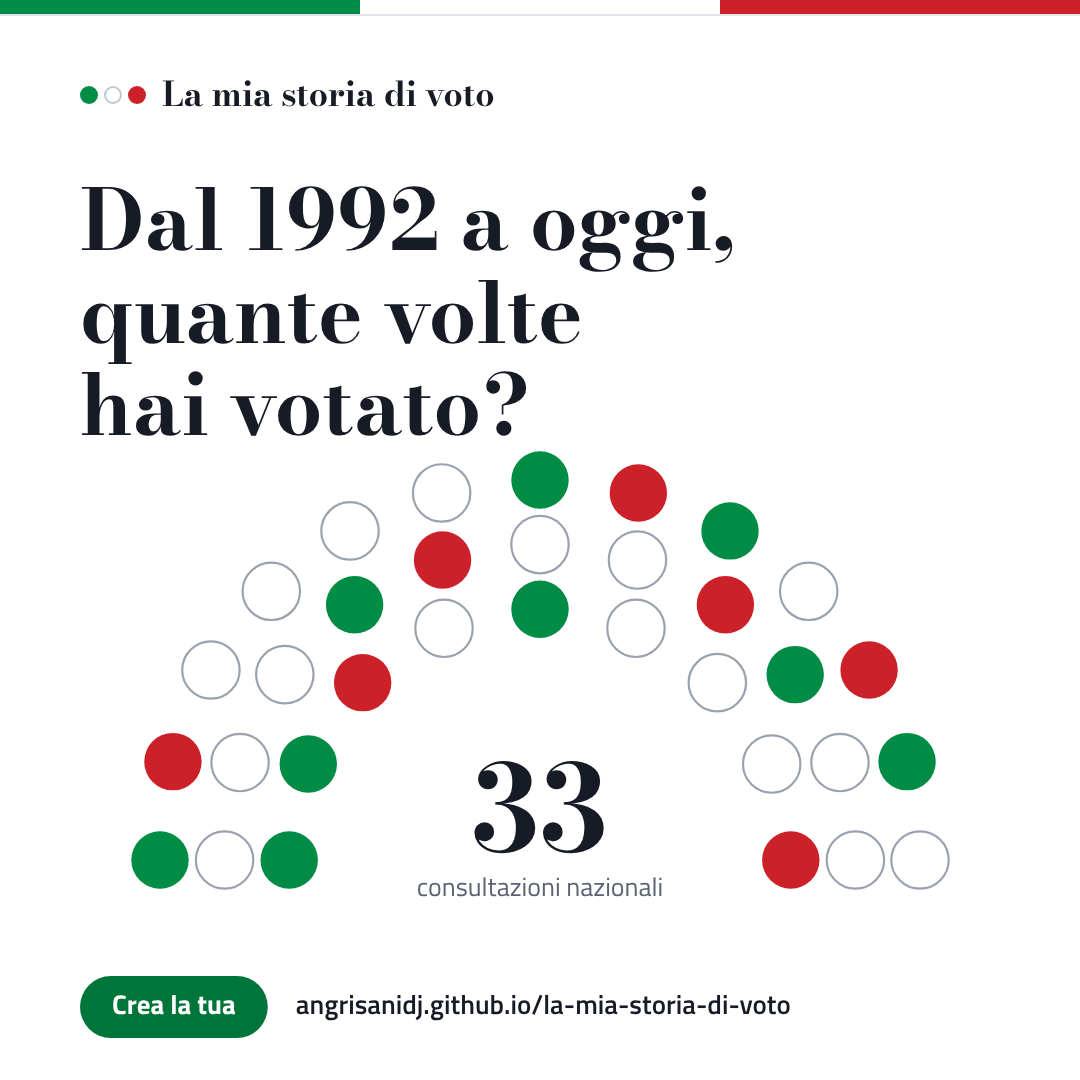
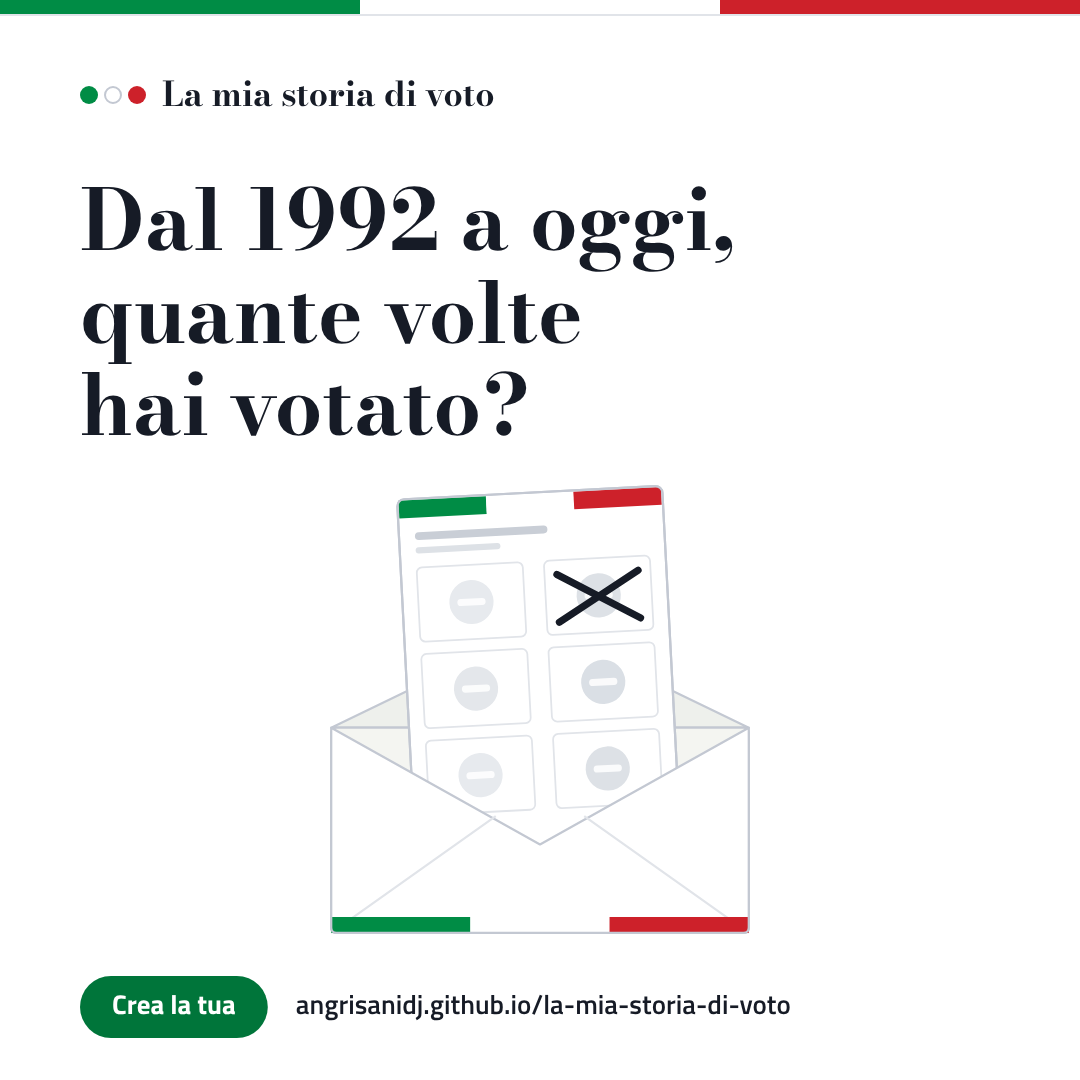
Apertura e immagini promozionali: scheda tricolore che entra nella busta
Al posto dell'emiciclo, una scheda elettorale con i colori italiani:
nella pagina compare, viene segnata con la croce e scivola nella busta
(animazione unica, disattivata con «riduci movimento»); nelle anteprime
dei link e nelle immagini per X e Instagram la stessa illustrazione.
La card personale mantiene l'emiciclo dei propri voti.

Claude-Session: https://claude.ai/code/session_012BfBFRLyxTWGEGyjoB9qwE

diff --git a/app.js b/app.js
@@ -638,31 +638,45 @@ function postiEmiciclo(N, R) {
   return { posti, raggio };
 }
 
+// Illustrazione d'apertura: la scheda tricolore, votata, che entra nella busta.
+// La stessa grafica serve per la pagina (SVG animato) e per le immagini promozionali (disegnata su canvas).
+function svgSchedaBusta(animata) {
+  const verde = '#008C45', rosso = '#CD212A', ink = '#161B26', filo = '#E1E4E9', contorno = '#C3C8D2';
+  const caselle = [];
+  [[168, 112], [312, 112], [168, 210], [312, 210], [168, 308], [312, 308]].forEach(([x, y], i) => {
+    caselle.push(`<rect x="${x}" y="${y}" width="120" height="84" rx="6" fill="#fff" stroke="${filo}" stroke-width="2"/>`);
+    caselle.push(`<circle cx="${x + 60}" cy="${y + 42}" r="25" fill="${['#E7EAEE', '#DDE1E6', '#E4E7EB', '#DADFE5', '#E7EAEE', '#DDE1E6'][i]}"/>`);
+    caselle.push(`<rect x="${x + 44}" y="${y + 38}" width="32" height="8" rx="4" fill="#fff" opacity=".85"/>`);
+  });
+  const croce = `<g class="croce" stroke="${ink}" stroke-width="8" stroke-linecap="round" fill="none">
+      <path pathLength="1" d="M326 128 L418 182"/><path pathLength="1" d="M418 128 L326 182"/></g>`;
+  const scheda = `<g class="scheda"><g transform="rotate(-3 300 260)">
+      <rect x="150" y="34" width="300" height="420" rx="8" fill="#fff" stroke="${contorno}" stroke-width="2.5"/>
+      <rect x="151.5" y="35.5" width="99" height="20" fill="${verde}"/><rect x="250.5" y="35.5" width="99" height="20" fill="#fff"/><rect x="349.5" y="35.5" width="99" height="20" fill="${rosso}"/>
+      <rect x="150" y="34" width="300" height="420" rx="8" fill="none" stroke="${contorno}" stroke-width="2.5"/>
+      <rect x="168" y="72" width="150" height="9" rx="4.5" fill="#C9CED6"/><rect x="168" y="89" width="96" height="7" rx="3.5" fill="#DDE1E6"/>
+      ${caselle.join('')}${croce}</g></g>`;
+  const corpo = `
+    <polygon points="64,300 300,186 536,300" fill="#EEF0EC" stroke="${contorno}" stroke-width="2.5" stroke-linejoin="round"/>
+    <rect x="64" y="300" width="472" height="232" rx="6" fill="#F4F5F1" stroke="${contorno}" stroke-width="2.5"/>
+    ${scheda}
+    <path d="M64 300 L300 432 L536 300 L536 526 Q536 532 530 532 L70 532 Q64 532 64 526 Z" fill="#fff" stroke="${contorno}" stroke-width="2.5" stroke-linejoin="round"/>
+    <path d="M64 532 L250 400 M536 532 L350 400" stroke="${filo}" stroke-width="2.5" fill="none"/>
+    <rect x="64" y="514" width="157.3" height="18" fill="${verde}"/><rect x="221.3" y="514" width="157.3" height="18" fill="#fff"/><rect x="378.6" y="514" width="157.4" height="18" fill="${rosso}"/>
+    <path d="M64 514 L64 526 Q64 532 70 532 L530 532 Q536 532 536 526 L536 514" fill="none" stroke="${contorno}" stroke-width="2.5"/>`;
+  const stile = animata ? `<style>
+    @media (prefers-reduced-motion: no-preference) {
+      .scheda { animation: entra 2.5s ease-in-out .1s both; }
+      .croce path { stroke-dasharray: 1; stroke-dashoffset: 1; animation: segna .32s ease-out forwards; }
+      .croce path:first-child { animation-delay: .55s; } .croce path:last-child { animation-delay: .9s; }
+      @keyframes entra { 0% { transform: translateY(-80px); opacity: 0; } 14% { transform: translateY(-80px); opacity: 1; } 56% { transform: translateY(-80px); } 100% { transform: none; opacity: 1; } }
+      @keyframes segna { to { stroke-dashoffset: 0; } }
+    }</style>` : '';
+  return `<svg xmlns="http://www.w3.org/2000/svg" viewBox="40 20 520 530" role="img" aria-label="Una scheda elettorale tricolore, votata, che entra in una busta">${stile}${corpo}</svg>`;
+}
 function disegnaCalendario() {
   const box = $('#calendario');
-  if (!box) return;
-  const naz = NAZIONALI.filter(e => e.d <= OGGI_ISO).sort((a, b) => a.d.localeCompare(b.d));
-  const R = 250, { posti, raggio } = postiEmiciclo(naz.length, R);
-  const ns = 'http://www.w3.org/2000/svg';
-  const svg = document.createElementNS(ns, 'svg');
-  svg.setAttribute('viewBox', `${-R - 20} ${-R - 20} ${2 * R + 40} ${R + 76}`);
-  svg.setAttribute('aria-hidden', 'true');
-  posti.forEach((p, i) => {
-    const c = document.createElementNS(ns, 'circle');
-    c.setAttribute('cx', p.x.toFixed(1)); c.setAttribute('cy', p.y.toFixed(1)); c.setAttribute('r', raggio.toFixed(1));
-    c.setAttribute('class', naz[i].t);
-    c.style.setProperty('--i', i);
-    const t = document.createElementNS(ns, 'title'); t.textContent = `${naz[i].s}, ${dataLunga(naz[i].d, naz[i].d2)}`; c.append(t);
-    svg.append(c);
-  });
-  const num = document.createElementNS(ns, 'text');
-  num.setAttribute('class', 'grande'); num.setAttribute('x', 0); num.setAttribute('y', -4); num.setAttribute('text-anchor', 'middle');
-  num.textContent = String(naz.length);
-  const sotto = document.createElementNS(ns, 'text');
-  sotto.setAttribute('class', 'grande-sotto'); sotto.setAttribute('x', 0); sotto.setAttribute('y', 46); sotto.setAttribute('text-anchor', 'middle');
-  sotto.textContent = `consultazioni nazionali dal 1992 a oggi`;
-  svg.append(num, sotto);
-  box.replaceChildren(svg);
+  if (box) box.innerHTML = svgSchedaBusta(true);
 }
 
 // ===== Immagine =====

diff --git a/index.html b/index.html
@@ -18,7 +18,7 @@
 <meta property="og:image:type" content="image/png">
 <meta property="og:image:width" content="1200">
 <meta property="og:image:height" content="630">
-<meta property="og:image:alt" content="La mia storia di voto: dal 1992 a oggi, quante volte hai votato? Un emiciclo di pallini nei colori della bandiera italiana.">
+<meta property="og:image:alt" content="La mia storia di voto: dal 1992 a oggi, quante volte hai votato? Una scheda elettorale tricolore che entra in una busta.">
 <meta name="twitter:card" content="summary_large_image">
 <meta name="twitter:title" content="La mia storia di voto">
 <meta name="twitter:description" content="Dal 1992 a oggi, quante volte hai votato? Ricostruisci la tua storia di voto.">
@@ -91,22 +91,8 @@ a { color: inherit; text-underline-offset: 3px; }
 .patti { margin-top: 32px; padding-top: 20px; border-top: 1px solid var(--filo); display: grid; gap: 9px; font-size: .98rem; max-width: 34em; color: var(--grigio); }
 .patti li { display: grid; grid-template-columns: 10px 1fr; gap: 12px; align-items: start; }
 .patti .punto { margin-top: 9px; }
-.calendario svg { display: block; width: 100%; height: auto; overflow: visible; }
-.calendario .asse { stroke: var(--filo); stroke-width: 2; }
-.calendario .tacca { stroke: var(--contorno); stroke-width: 1.5; }
-.calendario .anno-et { font: 600 13px var(--testo); fill: var(--grigio); text-anchor: middle; }
-.calendario .grande { font: 700 92px var(--titoli); fill: var(--inchiostro); }
-.calendario .grande-sotto { font: 400 17px var(--testo); fill: var(--grigio); }
-.calendario circle { stroke-width: 1.4; }
-.calendario circle.pol { fill: var(--verde); stroke: var(--verde); }
-.calendario circle.ref { fill: #fff; stroke: #9AA2AF; }
-.calendario circle.eur { fill: var(--rosso); stroke: var(--rosso); }
-.legenda { margin-top: 14px; display: flex; flex-wrap: wrap; gap: 6px 18px; font-size: .9rem; color: var(--grigio); }
-.legenda span { display: inline-flex; align-items: center; gap: 8px; }
-@media (prefers-reduced-motion: no-preference) {
-  .calendario circle { opacity: 0; transform: translateY(-6px); transform-box: fill-box; animation: cade .35s ease-out forwards; animation-delay: calc(var(--i) * 28ms + 150ms); }
-  @keyframes cade { to { opacity: 1; transform: none; } }
-}
+.calendario { margin: 0; }
+.calendario svg { display: block; width: 100%; max-width: 520px; height: auto; margin: 0 auto; overflow: visible; }
 @media (min-width: 900px) { .apertura { grid-template-columns: minmax(0, 1fr) minmax(0, 1fr); gap: 56px; padding-top: 64px; } }
 
 /* ---------- Fogli ---------- */
@@ -268,13 +254,8 @@ select.campo { appearance: none; padding-right: 40px; background: #fff url("data
       <li><i class="punto r" aria-hidden="true"></i><span>Tutto resta nel tuo browser: la pagina non salva e non invia nulla.</span></li>
     </ul>
   </div>
-  <figure class="calendario" aria-label="Le consultazioni nazionali dal 1992 a oggi">
+  <figure class="calendario">
     <div id="calendario"></div>
-    <figcaption class="legenda">
-      <span><i class="punto v" aria-hidden="true"></i>Politiche</span>
-      <span><i class="punto b" aria-hidden="true"></i>Referendum</span>
-      <span><i class="punto r" aria-hidden="true"></i>Europee</span>
-    </figcaption>
   </figure>
 </section>
 
